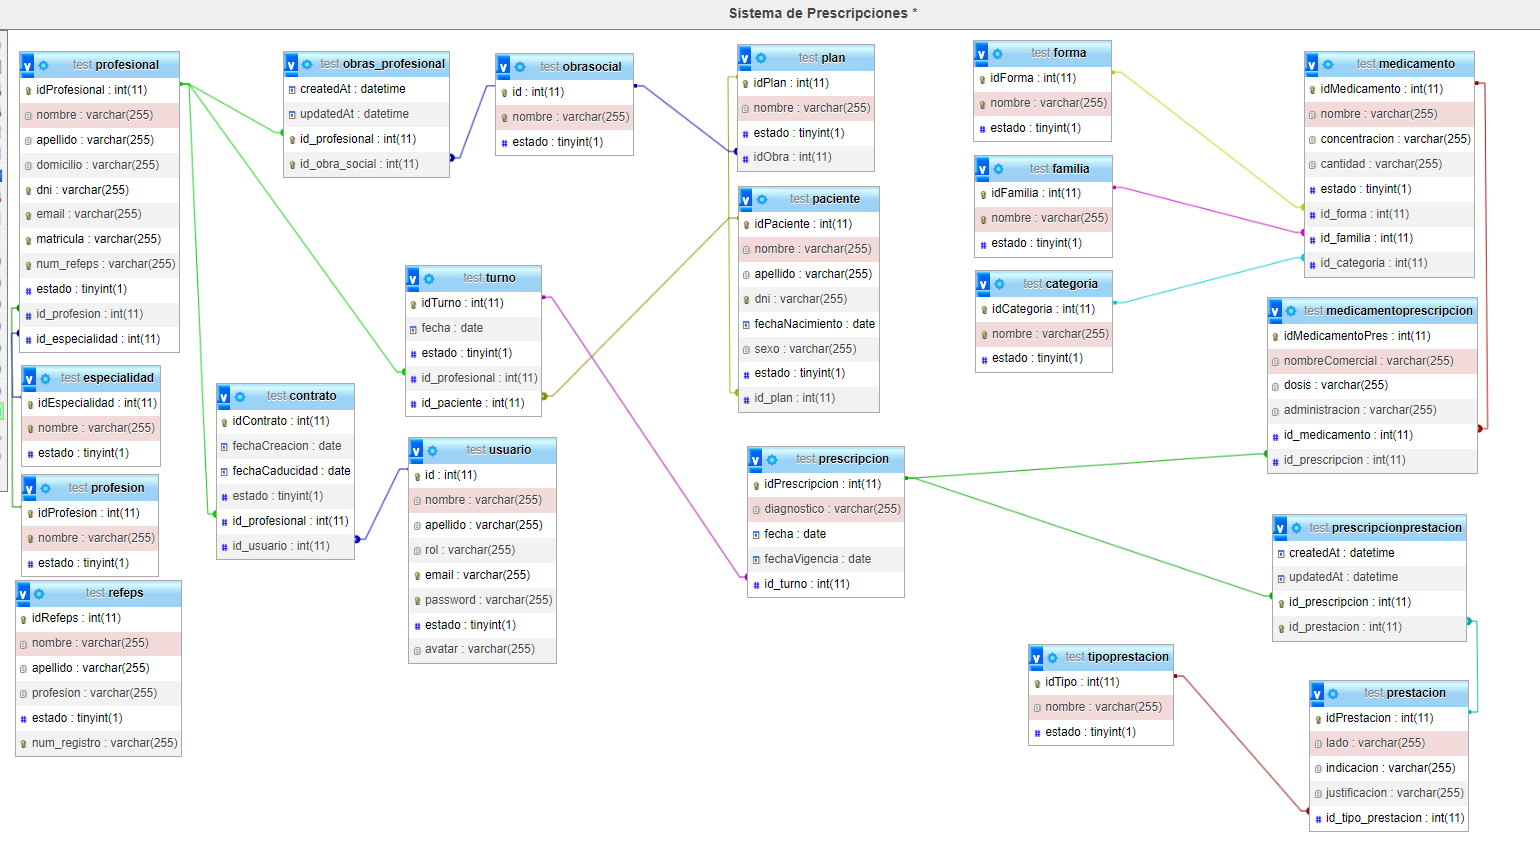
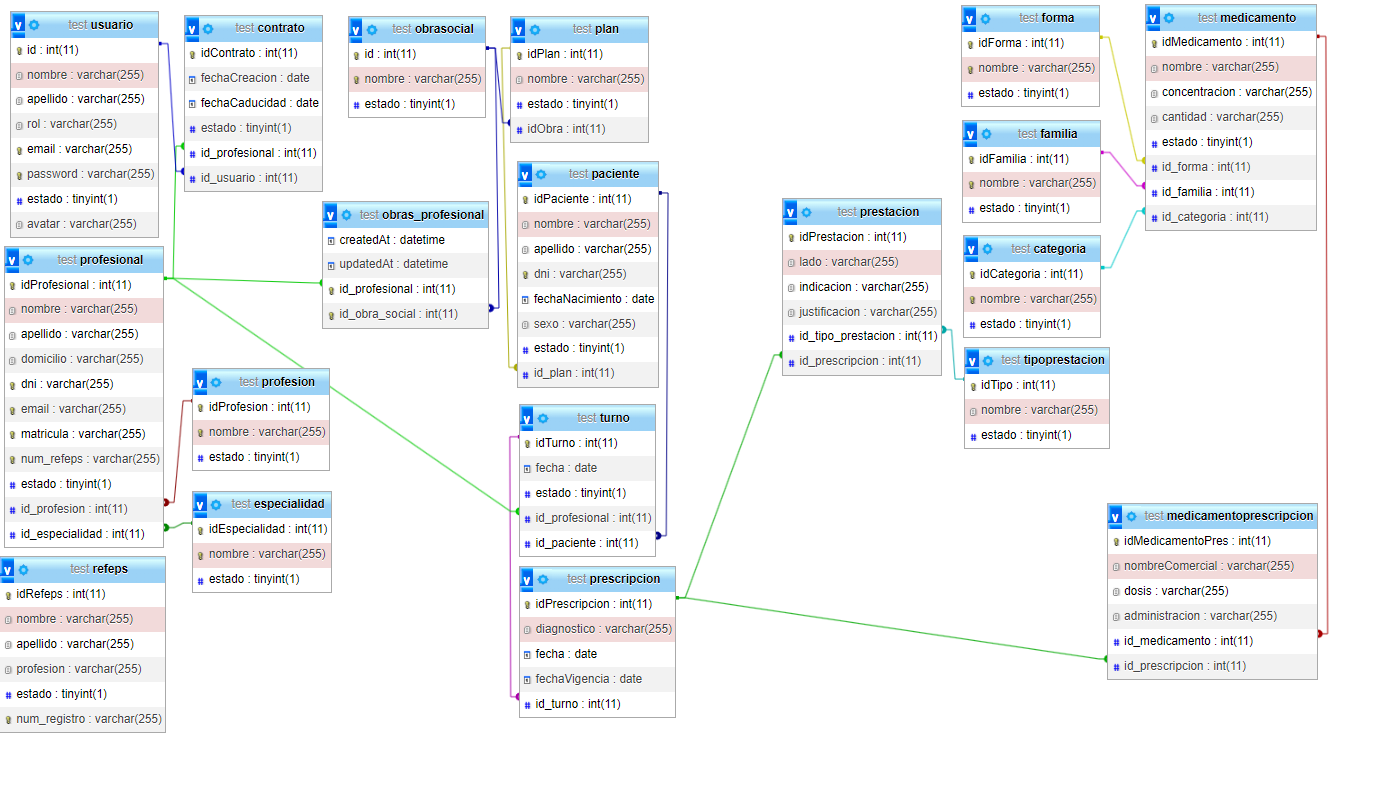
update

diff --git a/controllers/prescripcionController.js b/controllers/prescripcionController.js
@@ -9,6 +9,8 @@ const Plan = require('../models/plan');
 const Profesional = require('../models/profesional');
 const Prescripcion = require('../models/prescripcion');
 const MedicamentoPrescripcion = require('../models/medicamentoPrescripcion');
+const TipoPrestacion = require('../models/tipoPrestaciones');
+const Prestacion = require('../models/prestacion');
 
 // GET vista Receta de Medicamentos
 exports.vistaRecetaMedicamentos = async (req, res) => {
@@ -94,3 +96,75 @@ exports.altaPrescripcionMedicamentos = async (req, res) => {
     }
 };
 
+// GET vista Prestaciones
+exports.vistaPrescripcionPrestaciones = async (req,res) =>{
+    try {
+
+        //obtengo los datos del medico y paciente por medio del turno
+        const id = req.query.idTurno;
+        const turno = await Turno.findByPk(id);
+
+        const paciente = await Paciente.findOne({
+            where: { idPaciente: turno.id_paciente },
+            include: [{
+                model: Plan,
+                include: [{
+                    model: ObraSocial
+                }
+                ]
+            }
+            ]
+        })
+
+        const tipos = await TipoPrestacion.findAll({where:{estado:true}});
+
+        return res.status(200).render('prescripcion/altaPrestacion',{tipos, turno, paciente})
+    } catch (error) {
+        return res.status(500).json('Hubo un error: ' + error.message);
+    }
+}
+
+// POST alta Prescripcion Prestacion
+exports.altaPrescripcionPrestaciones = async(req,res)=>{
+    try {
+        const data = req.body;
+        const fecha = new Date();
+
+        // Crear la prescripción
+        const prescripcion = {
+            diagnostico: data.diagnostico,
+            fecha: fecha,
+            fechaVigencia: data.fechaVigencia,
+            id_turno: data.id_turno,
+        };
+
+        // Insertar la prescripción
+        const nuevaPrescripcion = await Prescripcion.create(prescripcion);
+
+        
+        const prestaciones = Array.isArray(data['prestaciones[][id_tipo_prestacion]'])
+            ? data['prestaciones[][id_tipo_prestacion]']
+            : [data['prestaciones[][id_tipo_prestacion]']];
+
+            if (Array.isArray(prestaciones)) {
+                for (let i = 0; i < prestaciones.length; i++) {
+                    const prestacion = {
+                        id_tipo_prestacion: prestaciones[i], // Correcto, mapeando al campo que recibes
+                        lado: data['prestaciones[][lado]'][i],
+                        indicacion: data['prestaciones[][indicacion]'][i],
+                        justificacion: data['prestaciones[][justificacion]'][i],
+                        id_prescripcion: nuevaPrescripcion.idPrescripcion
+                    };
+                    
+                    // Guardar la prestación en la base de datos
+                    await Prestacion.create(prestacion);
+                }
+            }
+            
+
+        return res.status(200).json('Prescripción creada con éxito!');
+    } catch (error) {
+        console.error(error);
+        return res.status(500).json('Hubo un error: ' + error.message);
+    }
+}

diff --git a/models/prescripcion.js b/models/prescripcion.js
@@ -29,7 +29,7 @@ const Prescripcion = sequelize.define(
     }
 )
 
-Turno.hasOne(Prescripcion,{
+Turno.hasMany(Prescripcion,{
     foreignKey: 'id_turno',
     sourceKey: 'idTurno'
 })
@@ -39,16 +39,14 @@ Prescripcion.belongsTo(Turno,{
     targetKey: 'idTurno'
 })
 
-Prescripcion.belongsToMany(Prestacion,{
-    through: 'prescripcionPrestacion',
-    foreignKey: 'id_prescripcion'
+Prescripcion.hasMany(Prestacion,{
+    foreignKey: 'id_prescripcion',
+    sourceKey: 'idPrescripcion'
 })
 
-Prestacion.belongsToMany(Prescripcion,{
-    through: 'prescripcionPrestacion',
-    foreignKey: 'id_prestacion'
+Prestacion.belongsTo(Prescripcion,{
+    foreignKey: 'id_prescripcion',
+    targetKey: 'idPrescripcion'
 })
-
-
 
 module.exports = Prescripcion;

diff --git a/public/js/recetarioPrestaciones.js b/public/js/recetarioPrestaciones.js
@@ -1,0 +1,11 @@
+document.getElementById('add-prestacion').addEventListener('click', () => {
+    const container = document.getElementById('prestaciones-container');
+    const prestacionItem = document.querySelector('.prestacion-item');
+    const newPrestacion = prestacionItem.cloneNode(true);
+
+    // Limpiar los valores de los campos en el nuevo item
+    newPrestacion.querySelectorAll('input, select, textarea').forEach(input => input.value = '');
+
+    // Añadir el nuevo item al contenedor
+    container.appendChild(newPrestacion);
+});

diff --git a/routers/prescripcionRouter.js b/routers/prescripcionRouter.js
@@ -8,4 +8,11 @@ routerPrescripcion.get('/recetaMedicamentos',prescripcionController.vistaRecetaM
 // POST alta Prescripcion medicamentos
 routerPrescripcion.post('/altaMedicacion',prescripcionController.altaPrescripcionMedicamentos);
 
+// GET vista Prestaciones
+routerPrescripcion.get('/recetaPrestaciones',prescripcionController.vistaPrescripcionPrestaciones);
+
+// POST alta Prescripcion Prestacion
+routerPrescripcion.post('/altaPrestaciones',prescripcionController.altaPrescripcionPrestaciones);
+
+
 module.exports = routerPrescripcion;

diff --git a/controllers/contratoController.js b/controllers/contratoController.js
@@ -9,7 +9,7 @@ const PDFDocument = require('pdfkit');//necesario para pdf
 //GET vista index de Contrato
 exports.vistaIndexContrato = async (req, res) => {
     try {
-        //Listo los contratos tanto activos como inactivos
+        //Listo los contratos 
 
         const contratos = await Contrato.findAll({
             include: {
